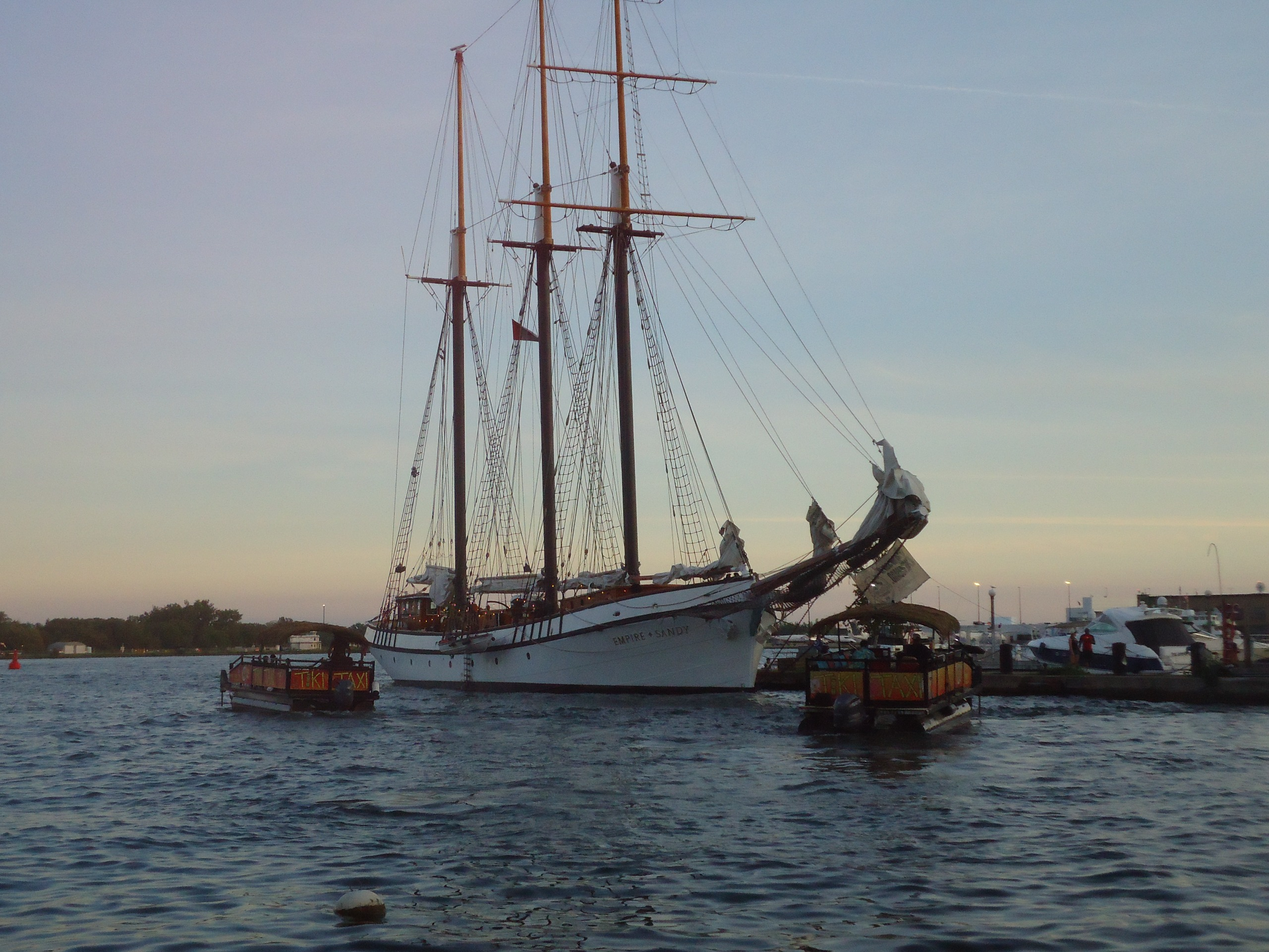
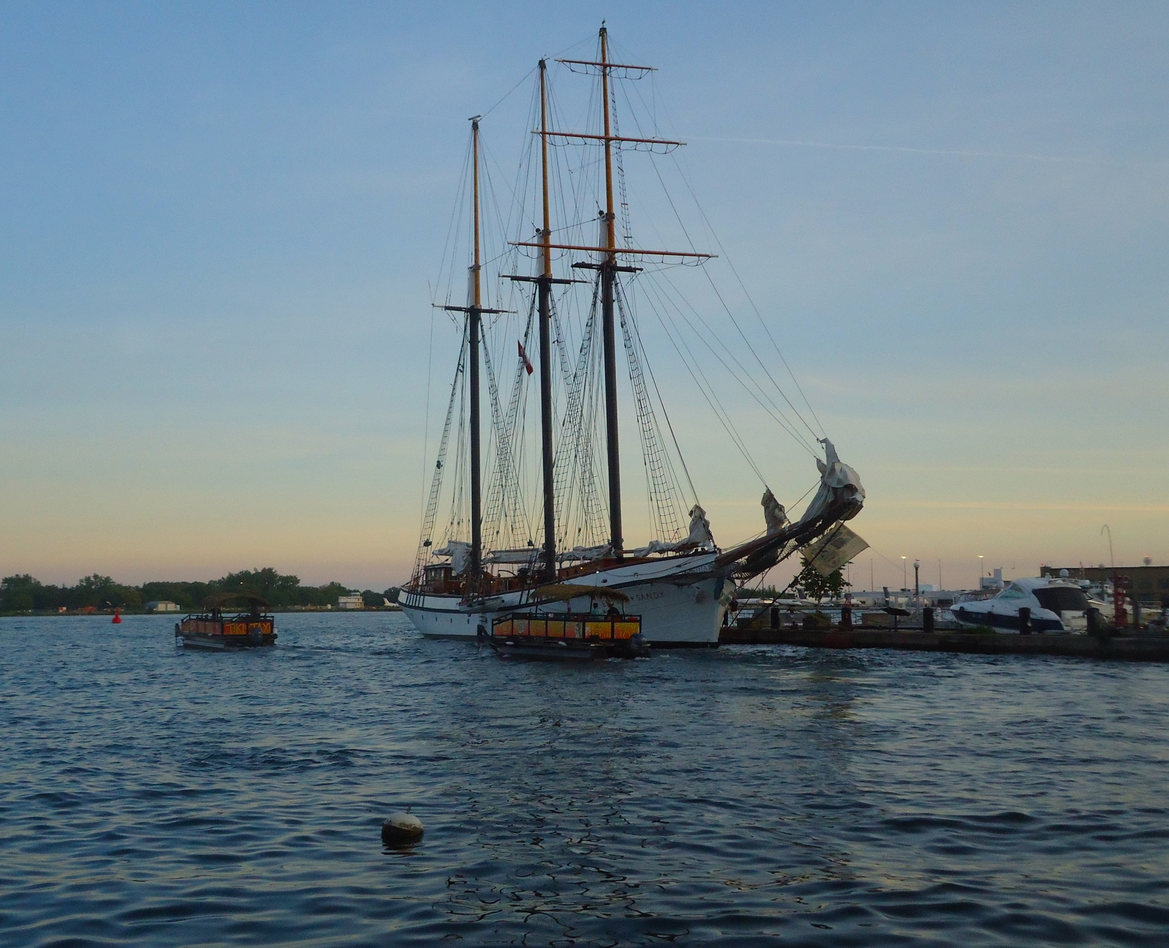
animations

diff --git a/index.html b/index.html
@@ -26,17 +26,97 @@
         <img id="left1" src="pictures/animals/bird4.jpeg">
         <img id="left2" src="pictures/nature/sunset.jpeg">
         <img id="left3" src="pictures/people/mallublue.jpeg">
-        <img id="left4" src="pictures/city/redsunset.jpeg">
+        <img id="left4" src="pictures/city/citystreet.jpeg">
       </div>
-      <div id="titleblock"><h1>Fatima Ali</h1> <i class="fa fa-chevron-down"></i></div>
+      <div id="titleblock"><h1 id="title">Fatima Ali</h1> <i class="fa fa-chevron-down"></i></div>
       
        <div class="right">
         <img id="right4" src="pictures/animals/swan.jpeg">
         <img id="right2" src="pictures/nature/mirrorlake.jpeg">
         <img id="right1" src="pictures/people/bhavvu.jpeg">
-        <img id="right3" src="pictures/city/citystreet.jpeg">
+        <img id="right3" src="pictures/city/redsunset.jpeg">
        </div>
       </section>
+
+      <section id = "gallery">
+
+        <div class="animals">
+          <img id="a1" src="pictures/animals/alligator.jpeg" />
+          <img id="a2" src="pictures/animals/bird.jpeg" />
+          <img id="a3" src="pictures/animals/bird2.jpeg" />
+          <img id="a4" src="pictures/animals/bird3.jpeg" />
+          <img id="a5" src="pictures/animals/bird4.jpeg" />
+          <img id="a6" src="pictures/animals/ducks.jpeg" />
+          <img id="a15" src="pictures/animals/turtles.jpeg" />
+          <img id="a7" src="pictures/animals/elephant.jpeg" />
+          <img id="a8" src="pictures/animals/fish.jpeg" />
+          <img id="a9" src="pictures/animals/goat.jpeg" />
+          <img id="a10" src="pictures/animals/lion.jpeg" />
+          <img id="a11" src="pictures/animals/squirrel.jpeg" />
+          <img id="a12" src="pictures/animals/swan.jpeg" />
+          <img id="a13" src="pictures/animals/tortoise.jpeg" />
+          <img id="a14" src="pictures/animals/tortoise2.jpeg" />
+          
+        </div>
+
+        <div class="nature">
+          <img id="n1" src="pictures/nature/beigeflowers.jpeg" />
+          <img id="n2" src="pictures/nature/cottageBHP.jpeg" />
+          <img id="n3" src="pictures/nature/falllake.jpeg" />
+          <img id="n4" src="pictures/nature/flowers2.jpeg" />
+          <img id="n5" src="pictures/nature/mirrorlake.jpeg" />
+          <img id="n6" src="pictures/nature/pinkflowers.jpeg" />
+          <img id="n7" src="pictures/nature/pinktree.jpeg" />
+          <img id="n8" src="pictures/nature/pinkwhiteflowers.jpeg" />
+          <img id="n9" src="pictures/nature/purpleflowers.jpeg" />
+          <img id="n10" src="pictures/nature/river.jpeg" />
+          <img id="n11" src="pictures/nature/riversunsetgold.jpeg" />
+          <img id="n12" src="pictures/nature/riverwillow.jpeg" />
+          <img id="n13" src="pictures/nature/seeratpark.jpeg" />
+          <img id="n14" src="pictures/nature/sky.jpeg" />
+          <img id="n15" src="pictures/nature/sunset.jpeg" />
+          <img id="n16" src="pictures/nature/tulip.jpeg" />
+          <img id="n17" src="pictures/nature/willowgryel.jpeg" />
+          <img id="n18" src="pictures/nature/windsorriver.jpeg" />
+          <img id="n19" src="pictures/nature/mountains.jpeg" />
+        </div>
+
+        <div id="city">
+          <img id="c1" src="pictures/city/city.jpeg">
+          <img id="c2" src="pictures/city/redsunset.jpeg">
+          <img id="c3" src="pictures/city/cityatnight.jpeg">
+          <img id="c6" src="pictures/city/kalataj.jpeg">
+          <img id="c4" src="pictures/city/cntower.jpeg">
+          <img id="c5" src="pictures/city/graffiti.jpeg">
+          <img id="c11" src="pictures/city/sunsetcity.jpeg">
+          <img id="c7" src="pictures/city/lamp.jpeg">
+          <img id="c8" src="pictures/city/rainy.jpeg">
+          <img id="c9" src="pictures/city/city2.jpeg">
+          <img id="c10" src="pictures/city/sea.jpeg">
+        </div>
+
+        <div id="people">
+          <img id="p1" src="pictures/people/bhavvu.jpeg">
+          <img id="p2" src="pictures/people/castlekhadija.jpeg">
+          <img id="p3" src="pictures/people/mallublue.jpeg">
+          <img id="p4" src="pictures/people/seeratprom.jpeg">
+          <img id="p5" src="pictures/people/bhavvumog.jpeg">
+          <img id="p6" src="pictures/people/malluflowers.jpeg">
+          <img id="p8" src="pictures/people/bhavya3.jpeg">
+          <img id="p7" src="pictures/people/castlekhadija2.jpeg">
+          <img id="p9" src="pictures/people/mallueid.jpeg">
+          <img id="p10" src="pictures/people/malluriver.jpeg">
+        </div>
+
+        
+
+      </section>
+      <p id="category">Animals</p>
     </main>
+    <script src="https://cdn.jsdelivr.net/npm/gsap@3.13.0/dist/gsap.min.js"></script>
+    <script src="https://cdn.jsdelivr.net/npm/gsap@3.13.0/dist/SplitText.min.js"></script>
+    <script src="https://cdn.jsdelivr.net/npm/gsap@3.12.5/dist/ScrollTrigger.min.js"></script>
+
+    <script src="script.js"></script>
   </body>
 </html>

diff --git a/style.css b/style.css
@@ -1,4 +1,11 @@
-@import url('https://fonts.googleapis.com/css2?family=Bodoni+Moda:ital,opsz,wght@0,6..96,400..900;1,6..96,400..900&family=Bowlby+One&family=Playfair+Display:ital,wght@0,400..900;1,400..900&display=swap');
+@import url('https://fonts.googleapis.com/css2?family=Barriecito&family=Bodoni+Moda:ital,opsz,wght@0,6..96,400..900;1,6..96,400..900&family=Bowlby+One&family=Playfair+Display:ital,wght@0,400..900;1,400..900&family=Yatra+One&display=swap');
+@font-face {
+  font-family: "Sprat";
+  src: url("fonts/Sprat-Black.woff") format("woff2");
+  font-weight: 400;
+  font-style: normal;
+}
+
 *{
     margin:0;
     padding: 0;
@@ -33,16 +40,13 @@ margin-left:2.5%;
     cursor:grab;
 }
 
-img{
-    object-fit: cover;
-    max-width:200px;
-}
-
 .hero {
-  position: absolute;
-  top: 20%;
-  left: 5%;
+  position: sticky;
+  top:0;
+  z-index:1;
+  margin: -15% auto 0;
   width: 90%; 
+  height:100vh;
   display: flex;
   flex-direction: row;
   justify-content: space-between; 
@@ -58,11 +62,31 @@ img{
 }
 
 #titleblock h1 {
-  font-family: 'Bodoni moda', serif;
+  font-family: 'Sprat', serif;
   letter-spacing:5px;
-  font-size: clamp(0.5rem, 5vw, 3rem);
+  font-size: clamp(0.5rem, 5vw, 5rem);
   color: #130303;
   margin: 0;
+}
+@keyframes slide_down{
+    0%{
+      top:10px;
+      opacity:0.2;
+    }
+    50%{
+      top:20px;
+      opacity:0.5;
+    }
+    100%{
+      top:25px;
+      opacity:1;
+    }
+}
+#titleblock i{
+  position:relative;
+  top:10px;
+  animation:slide_down 0.5s infinite alternate;
+  transition:ease-in-out;
 }
 
 .left, .right {
@@ -76,6 +100,10 @@ img{
   height: auto;
   object-fit: cover;
   border-radius: 4px; 
+  outline: 1px solid rgba(255,255,255,0.5);
+  outline-offset: -8px;
+  object-fit: cover;
+  max-width:200px;
 }
 
 #left1 {
@@ -87,7 +115,7 @@ img{
 
 #left2 {
   width: 50%;
-  top: 20%;
+  top: 15%;
   left: 50%;
   z-index: 2;
 }
@@ -100,7 +128,7 @@ img{
 }
 #left4{
   width:30%;
-  top: 85%;
+  top: 80%;
   left: 50%;
   z-index: 4;
 }
@@ -119,9 +147,9 @@ img{
 }
 
 #right3 {
-  width: 30%;
+  width: 37.5%;
   top: 80%;
-  right: 15%;
+  right: 7.5%;
   z-index: 3;
 }
 
@@ -129,4 +157,47 @@ img{
   width:40%;
   top:12%;
   right:50%;
+}
+
+#gallery{
+  padding-top:10%;
+  display:flex;
+  flex-direction:row nowrap;
+  justify-content: flex-start;
+  width: 100vw;
+  height:100vh;
+  position: relative;
+  z-index: 2; 
+  margin-top:0;
+  overflow: hidden;
+  background: #F5E3E0;
+
+}
+#gallery>div{
+  display: flex;
+  flex-flow: column wrap;
+  align-content: flex-start;
+  row-gap:50px;
+  column-gap:80px;
+  height: 80vh;
+  flex: 0 0 auto;
+
+}
+
+#gallery>div>img{
+max-width:100px;
+object-fit:cover;
+filter:grayscale(80%);;
+}
+
+#gallery > div:not(:last-child) {
+  margin-right: 80px;
+}
+
+#category{
+  font-family:"Sprat";
+  font-size:3rem;
+  justify-self:center;
+  align-self:center;
+  margin-bottom:10%;
 }

diff --git a/script.js b/script.js
@@ -1,0 +1,56 @@
+gsap.registerPlugin(SplitText);
+
+let split = SplitText.create("#title",{
+  type:"words"
+});
+
+gsap.from(split.words, {
+  y:100,
+  autoAlpha:0,
+  stagger:0.3
+})
+
+gsap.from(".nav li", {
+  y: 20,
+  autoAlpha: 0,
+  duration: 0.6,
+  stagger: 0.12,
+  ease: "power2.out"
+});
+
+for (let i = 1; i <= 4; i++) {
+  gsap.fromTo(
+    `#left${i}`,
+    { scale: 0, y: -150, opacity: 0 },
+    {
+      duration: 0.8,
+      scale: 1,
+      y: 0,
+      opacity: 1,
+      ease: "power3.out",
+      delay: 0.01 + 0.1 * i,
+    }
+  );
+}
+
+for (let i = 1; i <= 4; i++) {
+  gsap.fromTo(
+    `#right${i}`,
+    { scale: 0, y: 150, opacity: 0 },
+    {
+      duration: 0.8,
+      scale: 1,
+      y: 0,
+      opacity: 1,
+      ease: "power3.out",
+      delay: 0.01 + 0.15 * i,
+    }
+  );
+}
+
+gsap.registerPlugin(ScrollTrigger);
+
+gsap.to(".hero", {
+  scale: 0.7, opacity: 0.5, ease: "none",
+  scrollTrigger: { trigger: "#gallery", start: "top bottom", end: "top top", scrub: true }
+});
